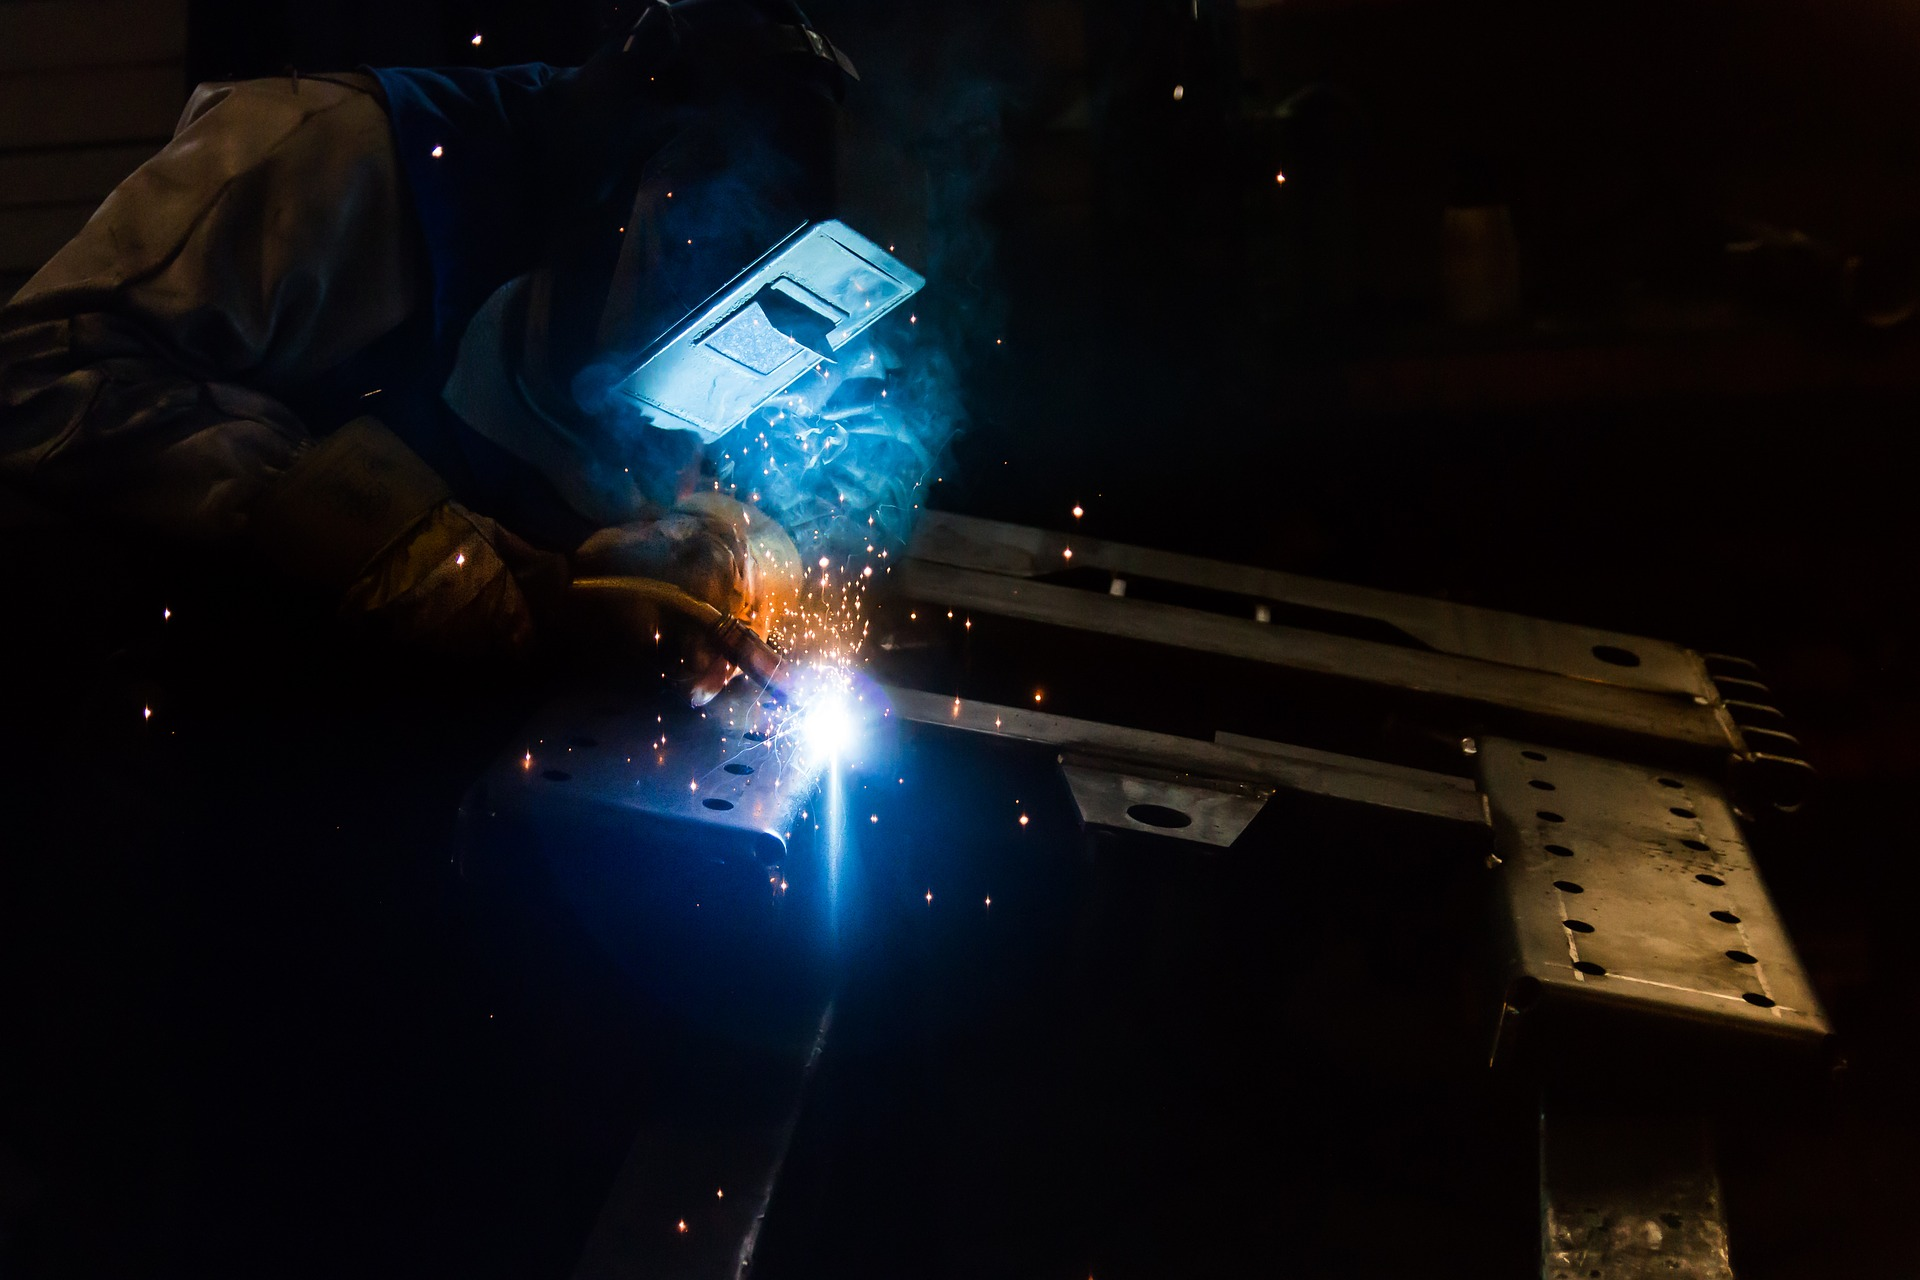
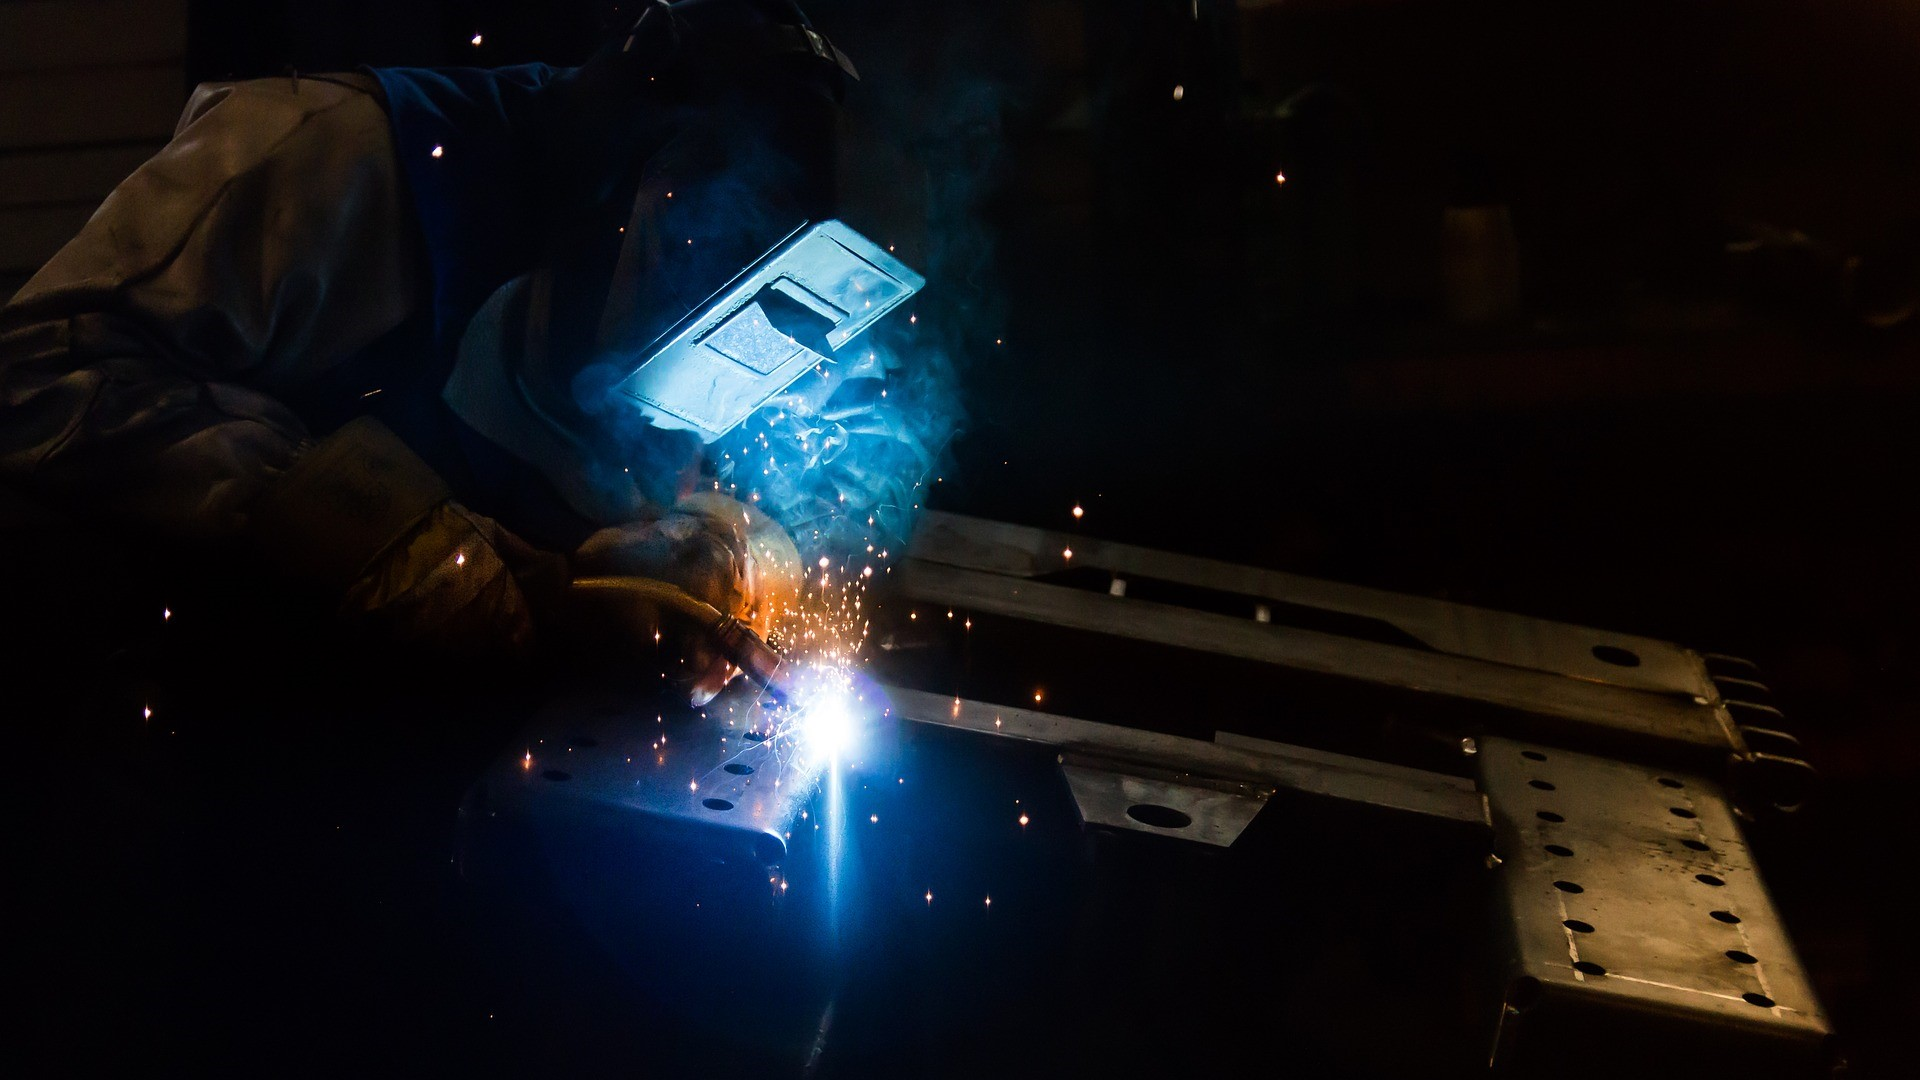
adapted size of welding image to 16by9

diff --git a/activiteiten.html b/activiteiten.html
@@ -86,7 +86,7 @@
             </tbody>
           </table>
 
-          <img src="./images/site/welding1.jpg" class="img-fluid d-block mx-auto" style="height: 250px" alt="welding1">
+          <img src="./images/site/welding1.jpg" class="img-fluid d-block mx-auto" style="height: 250px" alt="welding">
 
         </div>
         <div class="col-lg bg-light m-2 p-2 p-lg-4 rounded">
